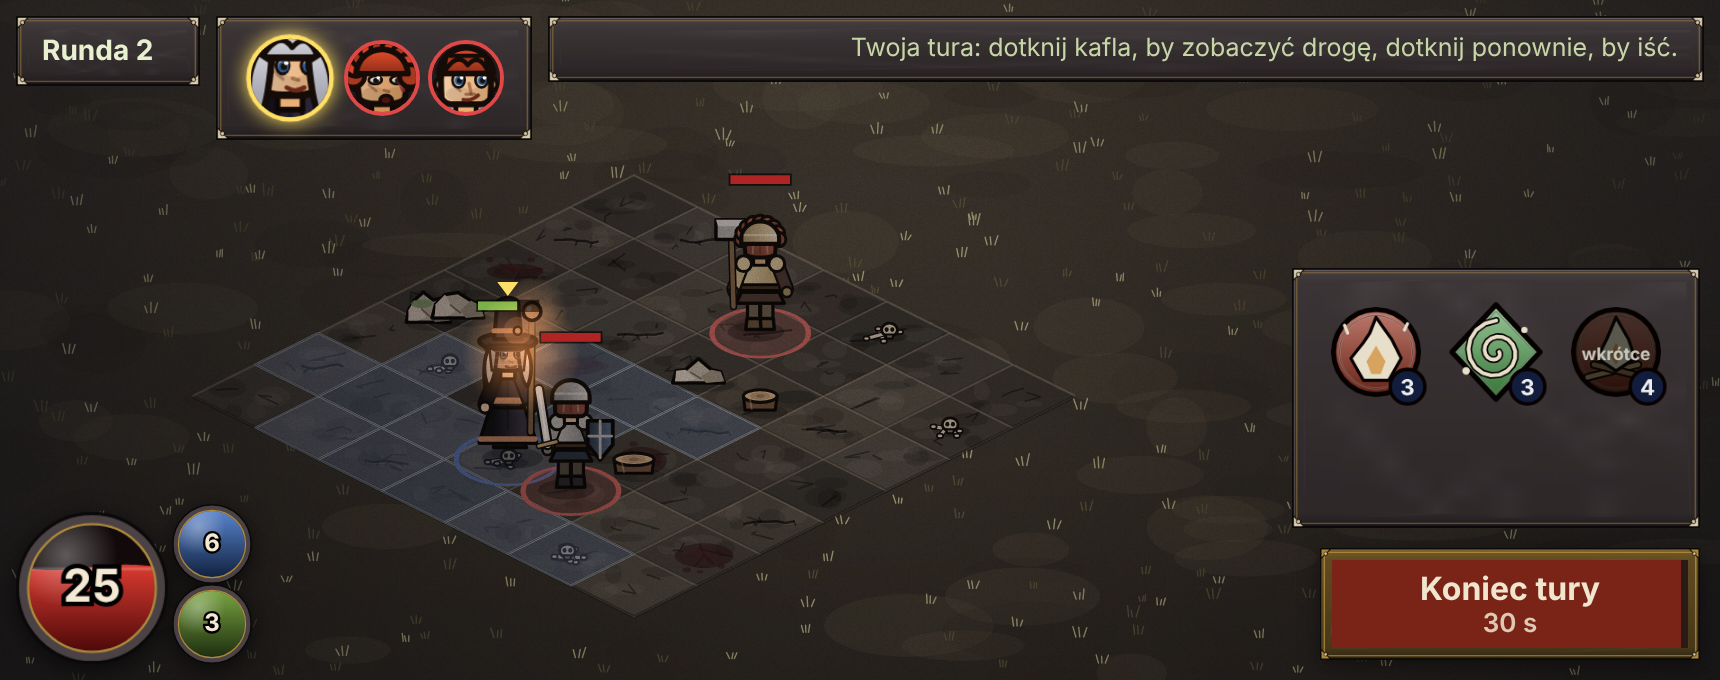
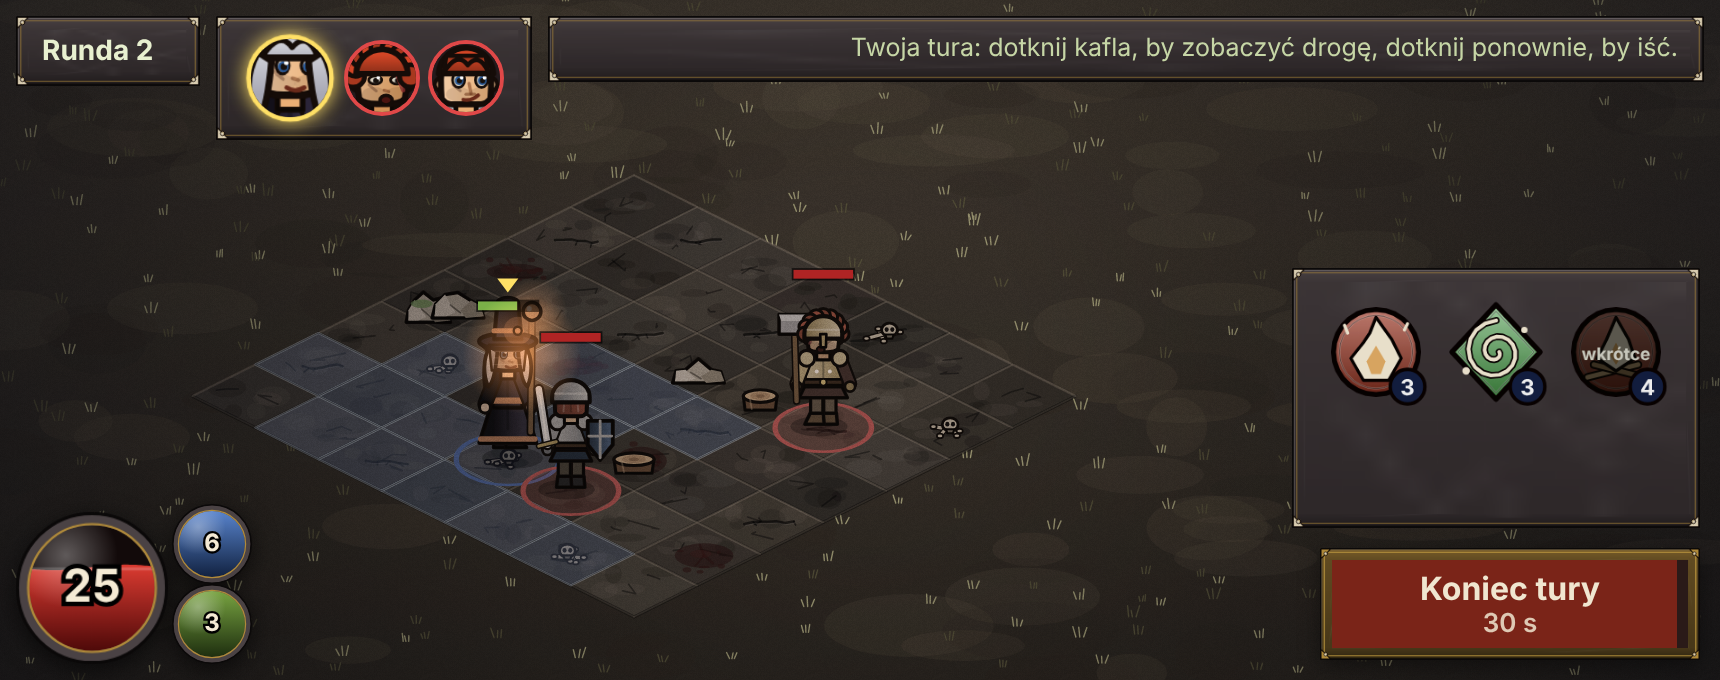
Rysowanie: teren jako niezależna warstwa, przedmioty sortowane globalnie, wyższy teren zasłania tylko to, co leży za nim; AI wrogów idzie drogą naokoło ścian
Obiekty przy granicach bloków terenu były ucinane przez teren następnego bloku (wychodziło przy zmianie powiększenia). AI wybierała kafel
najbliższy w linii prostej i stawała przed murem; teraz liczy odległość drogą.

Claude-Session: https://claude.ai/code/session_01YGgK3XekFYaLDhBRBtmmRq

Changed region(s): [[0.4006, 0.3088, 0.5238, 0.6794], [0.4006, 0.2471, 0.4622, 0.2779], [0.2773, 0.4015, 0.3081, 0.4324]]

diff --git a/src/art/worldview.js b/src/art/worldview.js
@@ -196,7 +196,32 @@ export class WorldView {
     if (PROP[o.k]) return [`${o.k}:${sd}`, SPR[o.k], (gg, ax, ay) => PROP[o.k](gg, ax, ay, sd)];
     return null;
   }
-  // cały świat widoczny w oknie (cam: środek w px świata, view: {w,h} w px css, zoom)
+  // kafle wyższe od gruntu przedmiotu i leżące przed nim (większa głębokość) w zasięgu jego obrazu: tylko one mogą go naprawdę zasłonić
+  occluderTiles(x, y, z) {
+    const out = [], d0 = x + y, e0 = x - y, w = this.w, fx = Math.floor(x), fy = Math.floor(y);
+    for (let ty = Math.max(0, fy - 6); ty < Math.min(N, fy + 15); ty++) for (let tx = Math.max(0, fx - 6); tx < Math.min(N, fx + 15); tx++) {
+      const dd = tx + ty + 1 - d0; if (dd < 0.5 || dd > 15 || Math.abs(tx - ty - e0) > 6) continue;
+      const k = ty * N + tx, top = w.lvl[k] + (w.ramp[k] ? 1 : 0);
+      if (top > z + 0.5 && dd <= 2 * top + 3 && w.cellKind[k] !== w.KIND.water) out.push(k);
+    }
+    return out;
+  }
+  // dorysowuje z gotowych bloków terenu powierzchnię i ściany kafla k (zasłania przedmiot leżący za nim)
+  redrawTile(g, k, scale) {
+    const w = this.w, tx = k % N, ty = (k - tx) / N, ch = this.chunks.get(Math.floor(ty / CS) * 1000 + Math.floor(tx / CS)); if (!ch || !ch.canvas) return;
+    const z = this.cornersZ(tx, ty), P = (fx, fy, zz) => this.proj(tx + fx, ty + fy, zz), polys = [[P(0, 0, z[0]), P(1, 0, z[1]), P(1, 1, z[2]), P(0, 1, z[3])]];
+    for (const [dx, dy] of [[1, 0], [0, 1]]) { const nx = tx + dx, ny = ty + dy; if (nx >= N || ny >= N) continue; const nz = this.cornersZ(nx, ny), ta = dx ? z[1] : z[3], tb = z[2], na = nz[0], nb = dx ? nz[3] : nz[1]; if (ta - na < 0.15 && tb - nb < 0.15) continue; const A = dx ? P(1, 0, ta) : P(0, 1, ta), B = P(1, 1, tb); polys.push([A, B, [B[0], B[1] + Math.max(0, tb - nb) * HZ], [A[0], A[1] + Math.max(0, ta - na) * HZ]]); }
+    let x0 = 1e9, y0 = 1e9, x1 = -1e9, y1 = -1e9; for (const pl of polys) for (const p of pl) { x0 = Math.min(x0, p[0]); x1 = Math.max(x1, p[0]); y0 = Math.min(y0, p[1]); y1 = Math.max(y1, p[1]); }
+    x0 -= 3; y0 -= 6; x1 += 3; y1 += 6; const sc = ch.canvas.width / ch.w;
+    g.save(); g.beginPath(); for (const pl of polys) { g.moveTo(pl[0][0], pl[0][1]); for (let i = 1; i < pl.length; i++) g.lineTo(pl[i][0], pl[i][1]); g.closePath(); } g.clip();
+    g.drawImage(ch.canvas, (x0 - ch.X0) * sc, (y0 - ch.Y0) * sc, (x1 - x0) * sc, (y1 - y0) * sc, x0, y0, x1 - x0, y1 - y0); g.restore();
+  }
+  // przedmiot (drzewo, budynek, postać) i zasłaniające go fragmenty wyższego terenu
+  drawWithOcclusion(g, occ, scale, drawFn) {
+    drawFn(); if (occ && occ.length) for (const k of occ) this.redrawTile(g, k, scale);
+  }
+  // cały świat widoczny w oknie (cam: środek w px świata, view: {w,h} w px css, zoom). Najpierw cały teren (niezależna warstwa), potem wszystkie
+  // przedmioty i postacie od tyłu do przodu; wyższy teren zasłania tylko te przedmioty, które faktycznie leżą za nim.
   draw(g, cam, view, zoom, dpr, t, entities = []) {
     const w = this.w, grid = this.grid, scale = zoom * dpr;
     const hw = view.w / 2 / zoom, hh = view.h / 2 / zoom, L = cam.x - hw - 40, R = cam.x + hw + 40, T = cam.y - hh - 60, B = cam.y + hh + MAXZ * HZ + 20;
@@ -205,25 +230,24 @@ export class WorldView {
     const ents = new Map(); for (const e of entities) { const k = Math.floor(e.y) * N + Math.floor(e.x); (ents.get(k) || ents.set(k, []).get(k)).push(e); }
     const list = []; for (let cy = Math.floor(gy0 / CS); cy <= Math.floor(gy1 / CS); cy++) for (let cx = Math.floor(gx0 / CS); cx <= Math.floor(gx1 / CS); cx++) list.push([cx, cy]);
     list.sort((a, b) => (a[0] + a[1]) - (b[0] + b[1]) || a[0] - b[0]);
-    const budget = { n: this.baked < 1 ? 999 : 4 };
+    const budget = { n: this.baked < 1 ? 999 : 4 }, items = [];
     for (const [cx, cy] of list) {
       const ch = this.chunk(cx, cy, scale, budget);
-      if (ch && ch.canvas) { if (ch.X0 > R + 100 || ch.X0 + ch.w < L - 100 || ch.Y0 > B + 340 || ch.Y0 + ch.h < T - 40) continue; g.drawImage(ch.canvas, ch.X0, ch.Y0, ch.w, ch.h); }
-      const items = [];
+      if (ch && ch.canvas && !(ch.X0 > R + 100 || ch.X0 + ch.w < L - 100 || ch.Y0 > B + 340 || ch.Y0 + ch.h < T - 40)) g.drawImage(ch.canvas, ch.X0, ch.Y0, ch.w, ch.h);
       for (let ty = cy * CS; ty < Math.min(N, cy * CS + CS); ty++) for (let tx = cx * CS; tx < Math.min(N, cx * CS + CS); tx++) {
         const k = ty * N + tx;
         const objs = w.byTile.get(k); if (objs) for (const o of objs) items.push({ d: o.x + o.y, o });
         const bl = this.bld.get(k); if (bl) for (const b of bl) items.push({ d: b.sx + b.sy - 1, b });
-        const en = this.ent.get(k); if (en) for (const i of en) items.push({ d: w.entrances[i].at[0] + w.entrances[i].at[1], en: i });
+        const en = this.ent.get(k); if (en) for (const i of en) items.push({ d: w.entrances[i].at[0] + w.entrances[i].at[1] + 1.5, en: i });
         const es = ents.get(k); if (es) for (const e of es) items.push({ d: e.x + e.y + 0.001, e });
       }
-      items.sort((a, b) => a.d - b.d);
-      for (const it of items) {
-        if (it.o) { const o = it.o, [sx, sy] = this.pos(o.x, o.y); if (sx < L - 160 || sx > R + 160 || sy < T - 40 || sy > B + 340) continue; const dr = this.objectDrawer(o); if (dr) this.drawSprite(g, dr[0], dr[1], dr[2], sx, sy, scale); }
-        else if (it.b) { const b = it.b, [sx, sy] = this.proj(b.sx, b.sy, heightAt(w, b.sx - 0.5, b.sy - 0.5)); this.drawSprite(g, `b:${b.s.seed}`, SPR.budynek, (gg, ax, ay) => { gg.save(); gg.translate(ax, ay); gg.scale(b.k, b.k); drawBuilding(gg, 0, 0, b.s); gg.restore(); }, sx, sy, scale); }
-        else if (it.en !== undefined) { const i = it.en, e = w.entrances[i], [sx, sy] = this.pos(e.at[0], e.at[1]); this.drawSprite(g, `e:${i}`, SPR[e.kind], (gg, ax, ay) => drawEntrance(gg, ax, ay, this.entSpecs[i]), sx, sy, scale); }
-        else it.e.draw(g, ...this.pos(it.e.x, it.e.y));
-      }
+    }
+    items.sort((a, b) => a.d - b.d);
+    for (const it of items) {
+      if (it.o) { const o = it.o, [sx, sy] = this.pos(o.x, o.y); if (sx < L - 160 || sx > R + 160 || sy < T - 40 || sy > B + 340) continue; const dr = this.objectDrawer(o); if (!dr) continue; if (o._occ === undefined) o._occ = this.occluderTiles(o.x, o.y, heightAt(w, o.x, o.y)); this.drawWithOcclusion(g, o._occ, scale, () => this.drawSprite(g, dr[0], dr[1], dr[2], sx, sy, scale)); }
+      else if (it.b) { const b = it.b, z = heightAt(w, b.sx - 0.5, b.sy - 0.5), [sx, sy] = this.proj(b.sx, b.sy, z); if (b._occ === undefined) b._occ = this.occluderTiles(b.sx, b.sy, z); this.drawWithOcclusion(g, b._occ, scale, () => this.drawSprite(g, `b:${b.s.seed}`, SPR.budynek, (gg, ax, ay) => { gg.save(); gg.translate(ax, ay); gg.scale(b.k, b.k); drawBuilding(gg, 0, 0, b.s); gg.restore(); }, sx, sy, scale)); }
+      else if (it.en !== undefined) { const i = it.en, e = w.entrances[i], [sx, sy] = this.pos(e.at[0], e.at[1]); if (e._occ === undefined) e._occ = this.occluderTiles(e.at[0], e.at[1], heightAt(w, e.at[0], e.at[1])); this.drawWithOcclusion(g, e._occ, scale, () => this.drawSprite(g, `e:${i}`, SPR[e.kind], (gg, ax, ay) => drawEntrance(gg, ax, ay, this.entSpecs[i]), sx, sy, scale)); }
+      else { const e = it.e, occ = this.occluderTiles(e.x, e.y, heightAt(w, e.x, e.y)); this.drawWithOcclusion(g, occ, scale, () => e.draw(g, ...this.pos(e.x, e.y))); }
     }
   }
 }

diff --git a/src/game/ai.js b/src/game/ai.js
@@ -43,16 +43,24 @@ function bestCast(state, u, foes, { pushBonus = false, weakestFirst = false } = 
   }
   return best ? best.cmd : null;
 }
-// krok w stronę celów (lista kafli): wybiera osiągalny kafel najbliższy celowi, tylko gdy to realne zbliżenie
+// odległość po ścieżce (BFS po kaflach bez jednostek) od zbioru celów do każdego kafla: przeciwnik wybiera ruch, który faktycznie zbliża go
+// do celu drogą naokoło ścian, a nie ten, który jest bliżej w linii prostej (stąd wcześniej stawał w ślepym zaułku przed murem)
+function distField(g, goals) {
+  const d = new Map(), q = []; for (const c of goals) { const k = g.key(c.x, c.y); if (!d.has(k)) { d.set(k, 0); q.push(c); } }
+  for (let i = 0; i < q.length; i++) { const c = q[i], dc = d.get(g.key(c.x, c.y)); for (const [dx, dy] of [[1, 0], [0, 1], [-1, 0], [0, -1]]) { const x = c.x + dx, y = c.y + dy, k = g.key(x, y); if (!g.walkable(x, y) || d.has(k)) continue; d.set(k, dc + 1); q.push({ x, y }); } }
+  return d;
+}
+// krok w stronę celów (lista kafli): z osiągalnych kafli wybiera ten o najmniejszej odległości drogą, tylko gdy to realne zbliżenie
 function stepToward(state, u, goals) {
   if (!goals.length) return null;
-  const moves = [...legalMoves(state, u.id).values()].sort(byCell), near = (c) => Math.min(...goals.map((q) => dist(c, q)));
+  const g = gridOf(state), field = distField(g, goals), here = field.get(g.key(u.x, u.y));
+  if (here === undefined) return null;
   let pick = null;
-  for (const m of moves) { const d = near(m); if (!pick || d < pick.d) pick = { m, d }; }
-  if (!pick || pick.d >= near(u)) return null;
+  for (const m of [...legalMoves(state, u.id).values()].sort(byCell)) { const d = field.get(g.key(m.x, m.y)); if (d !== undefined && (!pick || d < pick.d)) pick = { m, d }; }
+  if (!pick || pick.d >= here) return null;
   return { type: 'move', unit: u.id, to: { x: pick.m.x, y: pick.m.y } };
 }
-// kafle przy najbliższym (po ścieżce) wrogu
+// idzie w stronę najbliższego (po ścieżce) wroga; gdy kafle przy nim zajmują sojusznicy, celuje w sam kafel wroga
 function approach(state, u, foes) {
   const g = gridOf(state), occ = occupied(state, u.id);
   let best = null;
@@ -60,8 +68,9 @@ function approach(state, u, foes) {
     const adj = [[1, 0], [0, 1], [-1, 0], [0, -1]].map(([dx, dy]) => ({ x: f.x + dx, y: f.y + dy })).filter((c) => g.walkable(c.x, c.y) && !occ.has(g.key(c.x, c.y)));
     for (const c of adj) { const p = findPath(g, u, c, occ); if (p && (!best || p.length < best.len || (p.length === best.len && f.id < best.foe.id))) best = { foe: f, len: p.length, goal: c }; }
   }
-  if (!best || !legalMoves(state, u.id).size) return null;
-  return stepToward(state, u, [best.goal]);
+  if (best) return legalMoves(state, u.id).size ? stepToward(state, u, [best.goal]) : null;
+  // wszystkie kafle przy wrogach są zajęte albo odcięte: podejdź jak najbliżej drogą (cel to kafle wrogów)
+  return stepToward(state, u, foes.map((f) => ({ x: f.x, y: f.y })));
 }
 const hasSpell = (u, id) => u.spells.some((s) => s.id === id);
 
